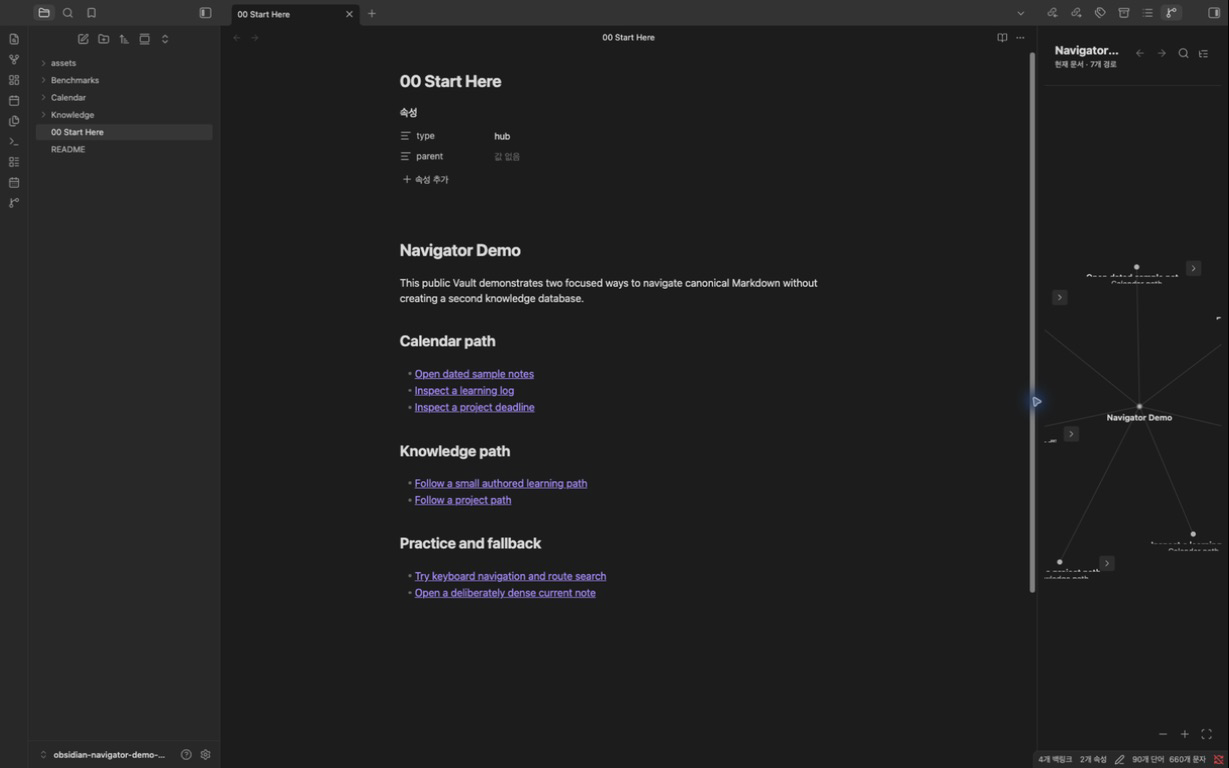
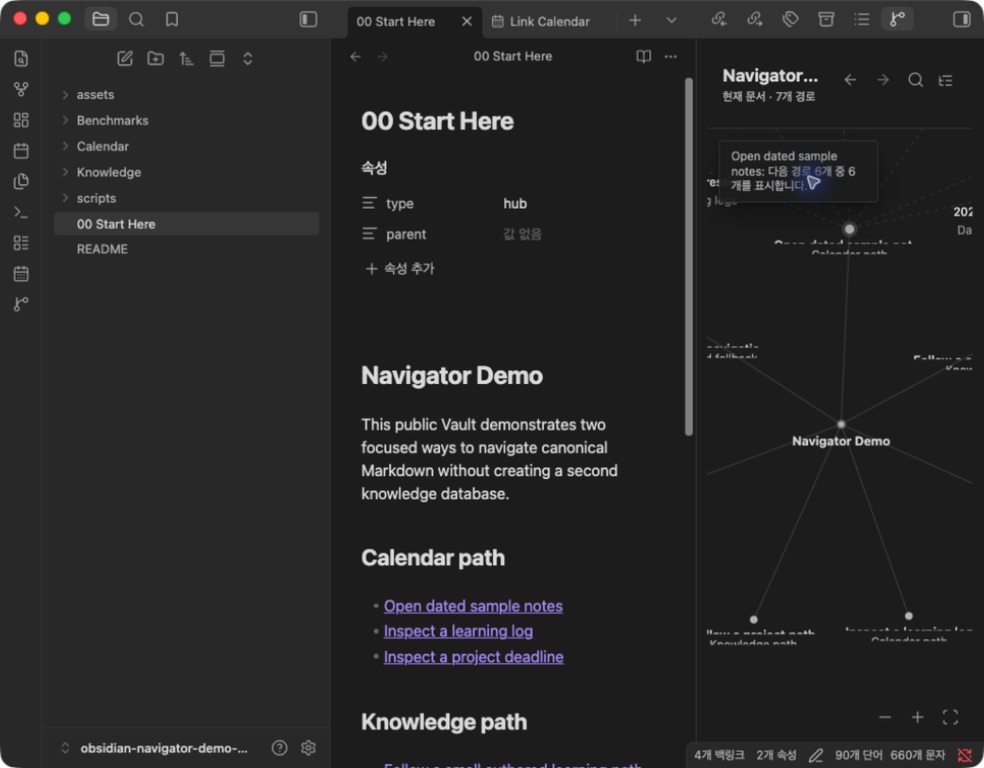
fix: restore node-only graph navigation

diff --git a/src/one-hop-graph.ts b/src/one-hop-graph.ts
@@ -29,8 +29,6 @@ interface OneHopGraphControls {
 	zoomIn: string;
 	fitGraph: string;
 	openParent: (label: string) => string;
-	previewNext: (label: string) => string;
-	closePreview: (label: string) => string;
 	omittedRoutes: (count: number) => string;
 	previewStatus: (label: string, shown: number, total: number) => string;
 	showAllInOutline: string;
@@ -62,7 +60,6 @@ interface PhysicsNode extends SimulationNodeDatum {
 	element?: HTMLElement;
 	dot?: HTMLElement;
 	anchor?: HTMLElement;
-	previewToggle?: HTMLButtonElement;
 }
 
 interface PhysicsLink extends SimulationLinkDatum<PhysicsNode> {
@@ -239,17 +236,6 @@ export class OneHopForceGraph {
 		const dot = element.createSpan({ cls: "linked-graph-network-node-dot", attr: { "aria-hidden": "true" } });
 		element.createSpan({ cls: "linked-graph-network-node-label", text: item.label });
 		if (item.context) element.createSpan({ cls: "linked-graph-network-node-context", text: item.context });
-		const previewToggle = shell.createEl("button", {
-			cls: "linked-graph-preview-toggle",
-			attr: {
-				"aria-expanded": "false",
-				"aria-label": this.options.controls.previewNext(item.label),
-				tabindex: "0",
-				title: this.options.controls.previewNext(item.label),
-				type: "button",
-			},
-		});
-		setIcon(previewToggle, "chevron-right");
 		const node: PhysicsNode = {
 			id: item.key,
 			depth: 1,
@@ -261,7 +247,6 @@ export class OneHopForceGraph {
 			element: shell,
 			dot,
 			anchor: element,
-			previewToggle,
 		};
 		this.registerDrag(element, node);
 		shell.addEventListener("pointerenter", () => void this.showPreview(node));
@@ -269,10 +254,6 @@ export class OneHopForceGraph {
 		element.addEventListener("focus", () => void this.showPreview(node));
 		shell.addEventListener("focusout", (event) => {
 			if (!(event.relatedTarget instanceof Node) || !shell.contains(event.relatedTarget)) this.hidePreview(node);
-		});
-		previewToggle.addEventListener("click", (event) => {
-			event.stopPropagation();
-			void this.togglePreview(node);
 		});
 		element.addEventListener("click", (event) => {
 			if (this.consumeSuppressedClick(event)) return;
@@ -321,14 +302,6 @@ export class OneHopForceGraph {
 		return Math.min(maximum, Math.max(minimum, halfWidth + padding));
 	}
 
-	private async togglePreview(node: PhysicsNode): Promise<void> {
-		if (this.previewOwnerId === node.id) {
-			this.clearPreview();
-			return;
-		}
-		await this.showPreview(node);
-	}
-
 	private async showPreview(node: PhysicsNode): Promise<void> {
 		if (!node.graph || this.previewOwnerId === node.id) return;
 		this.clearPreview();
@@ -345,7 +318,6 @@ export class OneHopForceGraph {
 		}
 		if (token !== this.previewToken || this.previewOwnerId !== node.id) return;
 		const visibleItems = boundedItems(items, MAX_PREVIEW_GRAPH_NODES);
-		this.setPreviewExpanded(node, true);
 		this.previewStatus.hidden = false;
 		this.previewStatus.setText(this.options.controls.previewStatus(
 			node.label,
@@ -400,7 +372,6 @@ export class OneHopForceGraph {
 	private clearPreview(): void {
 		this.previewToken += 1;
 		const previousOwner = this.leaves.find((leaf) => leaf.id === this.previewOwnerId);
-		if (previousOwner) this.setPreviewExpanded(previousOwner, false);
 		if (previousOwner && this.drag?.node !== previousOwner) {
 			previousOwner.fx = null;
 			previousOwner.fy = null;
@@ -414,19 +385,6 @@ export class OneHopForceGraph {
 		this.previewStatus.hidden = true;
 		this.previewStatus.setText("");
 		if (this.simulation) this.restartSimulation(0.12);
-	}
-
-	private setPreviewExpanded(node: PhysicsNode, expanded: boolean): void {
-		const toggle = node.previewToggle;
-		if (!toggle) return;
-		toggle.ariaExpanded = String(expanded);
-		const label = expanded
-			? this.options.controls.closePreview(node.label)
-			: this.options.controls.previewNext(node.label);
-		toggle.ariaLabel = label;
-		toggle.title = label;
-		toggle.empty();
-		setIcon(toggle, expanded ? "chevron-down" : "chevron-right");
 	}
 
 	private restartSimulation(alpha: number): void {

diff --git a/tests/product-contract.test.ts b/tests/product-contract.test.ts
@@ -89,11 +89,8 @@ test("one-hop graph supports movable root, parent navigation, hover preview, and
 	assert.match(graph, /onOpenParent/);
 	assert.match(graph, /pointerenter/);
 	assert.match(graph, /onPreview/);
-	assert.match(graph, /linked-graph-preview-toggle/);
-	assert.match(graph, /aria-expanded/);
-	assert.match(graph, /tabindex: "0"/);
-	assert.doesNotMatch(graph, /clickable-icon linked-graph-preview-toggle/);
-	assert.match(graph, /togglePreview/);
+	assert.match(graph, /element\.addEventListener\("focus", \(\) => void this\.showPreview\(node\)\)/);
+	assert.doesNotMatch(graph, /linked-graph-preview-toggle|previewToggle|togglePreview/);
 	assert.match(graph, /MAX_PREVIEW_GRAPH_NODES/);
 	assert.match(graph, /node\.fx = node\.x/);
 	assert.match(graph, /offsetWidth/);
@@ -138,7 +135,7 @@ test("graph uses an edge-to-edge canvas and node-only hover affordances", async 
 	assert.doesNotMatch(styles, /\.linked-graph-network-group-label/);
 	assert.match(styles, /\.linked-graph-network-node-shell\.is-preview-source[\s\S]*background: transparent/);
 	assert.match(styles, /\.linked-graph-network-node-shell\.is-preview-source \.linked-graph-network-node-dot \{[\s\S]*transform: scale\(1\.18\)/);
-	assert.match(styles, /\.linked-graph-preview-toggle/);
+	assert.doesNotMatch(styles, /\.linked-graph-preview-toggle/);
 	assert.match(styles, /\.linked-graph-network-overflow/);
 	assert.match(styles, /\.linked-graph-view \.linked-graph-network-root:focus-visible,[\s\S]*outline: none;[\s\S]*box-shadow: none/);
 	assert.match(styles, /\.linked-graph-network-root \{[\s\S]*flex-direction: column/);

diff --git a/styles.css b/styles.css
@@ -461,30 +461,6 @@
 	touch-action: none;
 }
 
-.linked-graph-preview-toggle {
-	display: inline-flex;
-	align-items: center;
-	justify-content: center;
-	width: 24px;
-	height: 24px;
-	margin: -6px -18px 0 -6px;
-	padding: 4px;
-	border: 0;
-	border-radius: var(--radius-s);
-	color: var(--lg-faint);
-	background: transparent;
-	box-shadow: none;
-	opacity: 0.72;
-}
-
-.linked-graph-network-node-shell:hover .linked-graph-preview-toggle,
-.linked-graph-network-node-shell:focus-within .linked-graph-preview-toggle,
-.linked-graph-preview-toggle[aria-expanded="true"] {
-	color: var(--lg-text);
-	background: color-mix(in srgb, var(--lg-hover) 72%, transparent);
-	opacity: 1;
-}
-
 .linked-graph-view button.linked-graph-network-node:hover,
 .linked-graph-view button.linked-graph-network-node:focus-visible,
 .linked-graph-view .linked-graph-network-node-shell.is-preview-source button.linked-graph-network-node {

diff --git a/src/ui/copy-en.ts b/src/ui/copy-en.ts
@@ -5,8 +5,6 @@ export const COPY_EN = {
 		expand: (label: string) => `Expand ${label}`, collapse: (label: string) => `Collapse ${label}`,
 		zoomOut: "Zoom out", zoomIn: "Zoom in", fitGraph: "Fit graph",
 		openParent: (label: string) => `Open parent note: ${label}`,
-		previewNext: (label: string) => `Preview next links from ${label}`,
-		closePreview: (label: string) => `Close next-link preview from ${label}`,
 		showAllInOutline: "Show all in Outline",
 	},
 	labels: {

diff --git a/src/view.ts b/src/view.ts
@@ -253,8 +253,6 @@ export class LinkedGraphView extends ItemView {
 				zoomIn: COPY.actions.zoomIn,
 				fitGraph: COPY.actions.fitGraph,
 				openParent: COPY.actions.openParent,
-				previewNext: COPY.actions.previewNext,
-				closePreview: COPY.actions.closePreview,
 				omittedRoutes: COPY.labels.omittedRoutes,
 				previewStatus: COPY.labels.previewStatus,
 				showAllInOutline: COPY.actions.showAllInOutline,

diff --git a/src/ui/copy-ko.ts b/src/ui/copy-ko.ts
@@ -12,8 +12,6 @@ export const COPY_KO = {
 		zoomIn: "확대",
 		fitGraph: "그래프 맞춤",
 		openParent: (label: string) => `상위 문서로 이동: ${label}`,
-		previewNext: (label: string) => `${label}의 다음 링크 미리보기`,
-		closePreview: (label: string) => `${label}의 다음 링크 미리보기 닫기`,
 		showAllInOutline: "목차에서 모두 보기",
 	},
 	labels: {

diff --git a/docs/ux-contract.md b/docs/ux-contract.md
@@ -12,7 +12,7 @@ Keep the canonical Markdown note visible while providing the shortest readable r
 4. Link order and plain-text bullet grouping follow the source in Outline view; Graph view contains resolved links only.
 5. The graph is the default: current note plus its direct authored links and one real edge per authored link.
 6. The current-note node and direct-link nodes share the force simulation and can all be dragged. Clicking the current-note node opens its resolved canonical `parent` when one exists.
-7. Hovering or focusing a direct-link node temporarily previews only that note's resolved outgoing links. A separate disclosure button provides the same preview on touch and keyboard; it reports its expanded state and can close the preview without opening the note.
+7. Hovering or focusing a direct-link node temporarily previews only that note's resolved outgoing links. The node itself is the only visible control: keyboard focus previews and Enter opens the note. Graph nodes never grow a second disclosure button.
 8. Node colour follows existing `node_kind`, `entity_kind`, and `facets` metadata. Titles never determine type, and colour is not the only navigation signal.
 9. Force position, hover preview, pan, zoom, and drag are ephemeral; plain bullet text never creates a graph node, caption, or cluster anchor.
 10. Outline view projects the full direct-link set in authored order. Graph view renders at most 120 direct nodes and 48 preview nodes, reports any omissions, and links to the complete Outline view.
@@ -25,7 +25,7 @@ Keep the canonical Markdown note visible while providing the shortest readable r
 - Header: current note title, resolved route count, search icon, and view switch.
 - Outline: deterministic vertical order with hairline separators and blue navigation titles.
 - Plain-text bullet groups: collapsible labels plus descendant link count.
-- Graph: movable current note, force-positioned direct authored links, parent navigation, hover/focus/touch outgoing preview, bounded visual nodes, omission status, metadata colours, drag, pan, zoom, and no saved positions.
+- Graph: movable current note, force-positioned direct authored links, parent navigation, hover/focus outgoing preview, bounded visual nodes, omission status, metadata colours, drag, pan, zoom, and no saved positions.
 - Graph spacing: the leaf is a viewport over an unbounded ephemeral world. Compact sidebars keep a readable minimum radius; wider panes and denser link sets expand force distance beyond the viewport when necessary. Pan and zoom, not viewport-edge clamping, reveal the rest of the graph.
 - Graph motion: node drag reheats one shared simulation; link, charge, collision, and gentle centering forces settle continuously instead of snapping nodes to a fixed ring or panel edge. Fit computes the current node bounds and never rewrites positions.
 - Empty and error states: short action-oriented text, no decorative cards.

diff --git a/docs/release-process.md b/docs/release-process.md
@@ -5,7 +5,7 @@
 3. Run `npm audit --omit=dev --audit-level=high`.
 4. Build `main.js` with `npm run build`.
 5. Install the local build through the Woon Obsidian plugin adapter and keep its receipt.
-6. Reload Obsidian; verify follow, single graph creation per navigation, movable current node, parent affordance, hover/focus/touch second-hop preview, keyboard disclosure state, 120/48 graph bounds with Outline fallback, unbounded pan/zoom, bounds-fit, density-responsive spacing, drag-reheated settling, metadata colours, direct navigation, collapse, search, empty state, and no Vault writes.
+6. Reload Obsidian; verify follow, single graph creation per navigation, movable current node, parent affordance, hover/focus second-hop preview without per-node disclosure buttons, 120/48 graph bounds with Outline fallback, unbounded pan/zoom, bounds-fit, density-responsive spacing, drag-reheated settling, metadata colours, direct navigation, collapse, search, empty state, and no Vault writes.
 7. Capture the tested right-sidebar runtime using public-safe sample notes.
 8. Update `docs/release-media.json` with dimensions and SHA-256; rerun `npm run check:media`.
 9. Verify manifest, package, tag, and release versions match.

diff --git a/README.md b/README.md
@@ -40,7 +40,7 @@ Obsidian Graph answers “how is this network connected?” Linked Graph Navigat
 1. Open a Markdown note.
 2. Run **Open Linked Graph Navigator for the current note** or select its ribbon icon.
 3. The default graph shows the current note and only its direct authored links. The current node and direct nodes all participate in the force layout.
-4. Drag any visible primary node, click the current node to move to its configured parent, or hover/focus a direct node to preview its next outgoing links. On touch, use the disclosure beside the node.
+4. Drag any visible primary node, click the current node to move to its configured parent, or hover/focus a direct node to preview its next outgoing links. Each graph node remains one uncluttered control.
 5. Node colours use existing canonical metadata only; titles are never used to infer type.
 6. Pan or zoom the graph, click a direct node to open the canonical note, or switch to **Outline view** for the same direct links in Markdown order.
 7. Use search to filter both views. A route also shows the section heading where its link was authored, so similarly named links keep their reading context.

diff --git a/CHANGELOG.md b/CHANGELOG.md
@@ -1,5 +1,9 @@
 # Changelog
 
+## 1.6.1
+
+- Remove the per-node next-route chevron that cluttered dense graphs. Direct nodes once again remain a single control: hover or keyboard focus previews the next route, and activation opens the note.
+
 ## 1.6.0
 
 - Show the authored section heading as context on direct graph routes, next-step previews, and the complete Outline.
